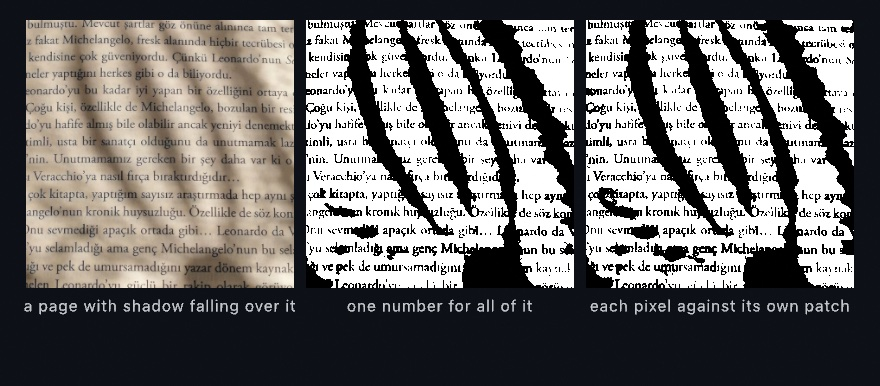
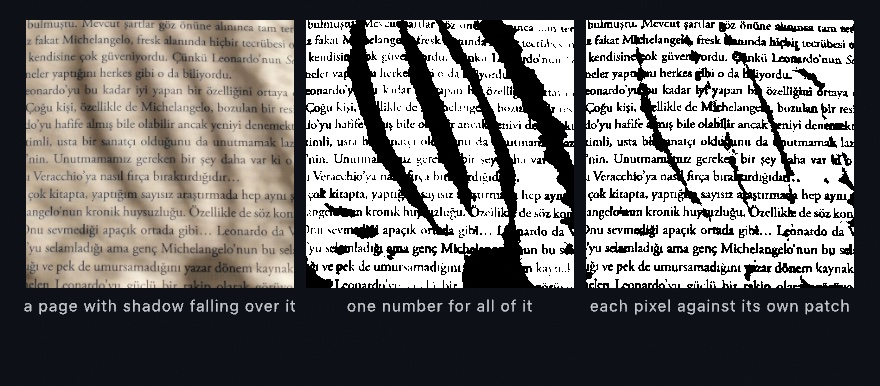
The adaptive threshold's window has an upper bound, and Chapter 21's figure shows the text coming back. Its right panel ran adaptiveThreshold(window: 90) over a page whose shadow bands are 25 to 35 pixels wide, so the 91-pixel box averaged the lit paper around each band and the bands came out solid 
Claude-Session: https://claude.ai/code/session_01WqLtBAH3GLezrn1E1FY2W7

diff --git a/Sources/Ollin/Effects/Filter.swift b/Sources/Ollin/Effects/Filter.swift
@@ -1678,14 +1678,19 @@ public struct Filter: Sendable {
     /// drawImage(page.filtered(.adaptiveThreshold()).image, 0, 0)
     /// ```
     ///
-    /// `window` is how wide that neighborhood is, in pixels, and it wants to be large
-    /// enough to hold both ink and paper: too small and the middle of a thick stroke
-    /// reads as its own background and hollows out. Left `nil` it is an eighth of the
-    /// layer, the published default. `bias` is the *fraction* below the local average a
-    /// pixel must fall before it goes dark, which keeps flat paper from breaking up into
-    /// noise. A fraction rather than a distance is what makes the cut survive uneven
-    /// light, since light falling on a page multiplies what comes back off it. The window
-    /// costs nothing to widen, so it is a parameter to adjust freely.
+    /// `window` is how wide that neighborhood is, in the layer's pixels, and it is
+    /// bounded on both sides. It wants to be wider than the marks, so every window
+    /// holds both ink and paper: too small and the middle of a thick stroke reads as
+    /// its own background and hollows out. And it wants to be narrower than the
+    /// lighting it should see past: a window wider than a shadow band averages the
+    /// lit paper around the band, and the band comes out solid ink. On a page of text
+    /// a window of one or two line heights sits between the two. Left `nil` it is an
+    /// eighth of the layer, the published default, which suits a page lit unevenly
+    /// across its whole width rather than one crossed by shadows. `bias` is the
+    /// *fraction* below the local average a pixel must fall before it goes dark, which
+    /// keeps flat paper from breaking up into noise. A fraction rather than a distance
+    /// is what makes the cut survive uneven light, since light falling on a page
+    /// multiplies what comes back off it. The window costs the same at any width.
     public static func adaptiveThreshold(window: Double? = nil, bias: Double = 0.15,
                                          inverted: Bool = false) -> Filter {
         Filter(kind: .adaptiveThreshold(window: window.map { max(1, $0) },

diff --git a/Guide/Figures/21-PicturesYouSolve/LocalAverages.swift b/Guide/Figures/21-PicturesYouSolve/LocalAverages.swift
@@ -51,7 +51,7 @@ final class LocalAverages: Sketch {
             case 1:
                 drawImage(page.filtered(.threshold(0.3)).image, in: frame)
             default:
-                drawImage(page.filtered(.adaptiveThreshold(window: 90)).image, in: frame)
+                drawImage(page.filtered(.adaptiveThreshold(window: 16)).image, in: frame)
             }
 
             fill(labelInk)

diff --git a/Docs/Drawing/LocalAverages.md b/Docs/Drawing/LocalAverages.md
@@ -117,8 +117,12 @@ paper color, so the stroke comes out hollow:
   <img src="../Images/HollowStroke.jpg" alt="The same page of a solid disc, a fat ring, and a heavy bar cut by the adaptive threshold twice: with a 20 pixel window every mark comes out as a hollow outline, and with a 160 pixel window all three stay solid ink" width="680">
 </picture>
 
-Widening the window costs nothing, so prefer a wide one. The published default of an eighth of
-the image is a good starting point for a page of text.
+The window costs the same at any width, and it is bounded on both sides. It has to be wider
+than the marks, or they hollow out as above. And it has to be narrower than the lighting it
+should see past: a window wider than a shadow band averages the lit paper around the band,
+and the band comes out solid ink. On a page of text, one or two line heights sits between
+the two. The published default of an eighth of the image suits a page lit unevenly across
+its whole width; a page crossed by shadows wants a window narrower than they are.
 
 <a id="how-it-works"></a>
 ### How it works
